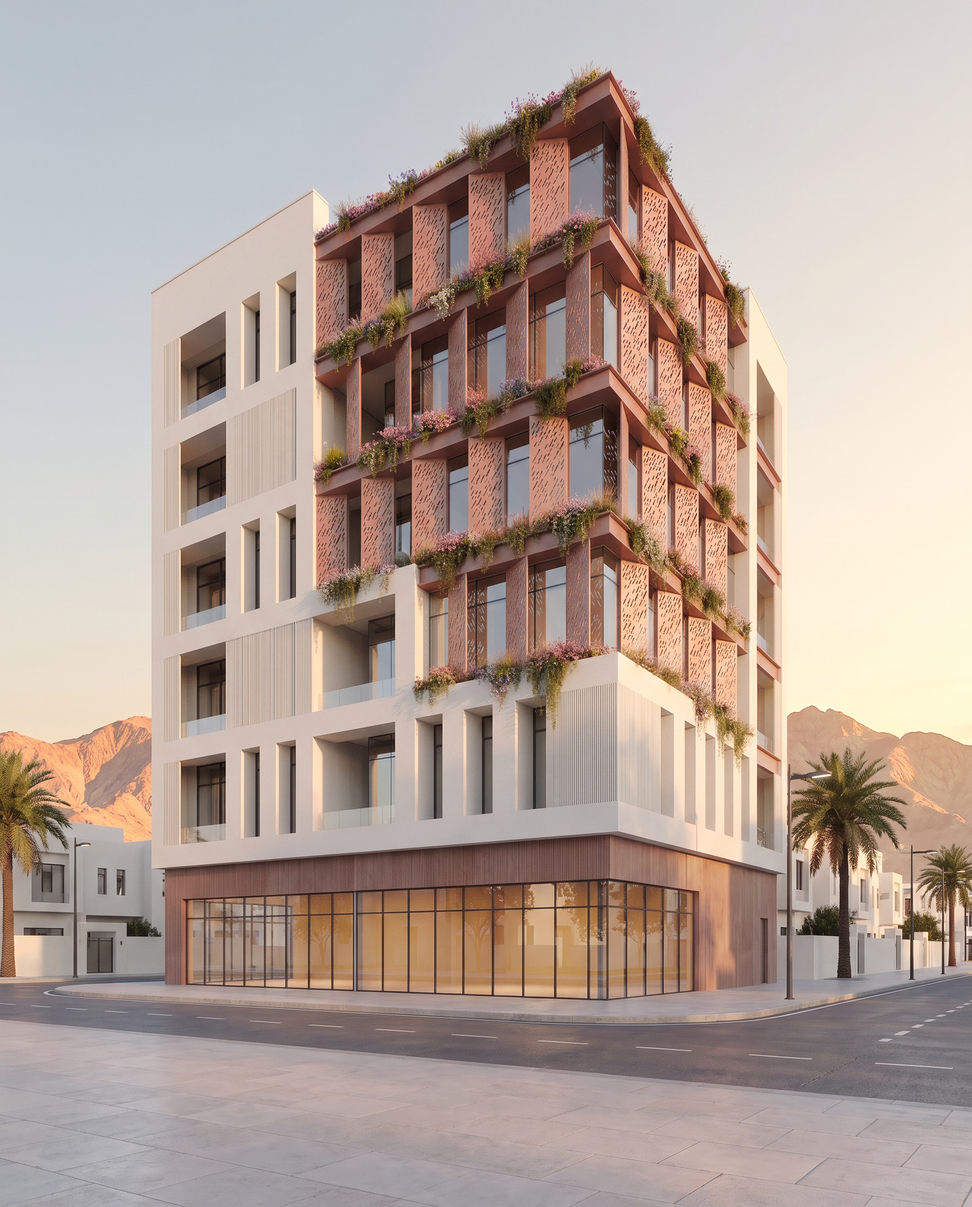
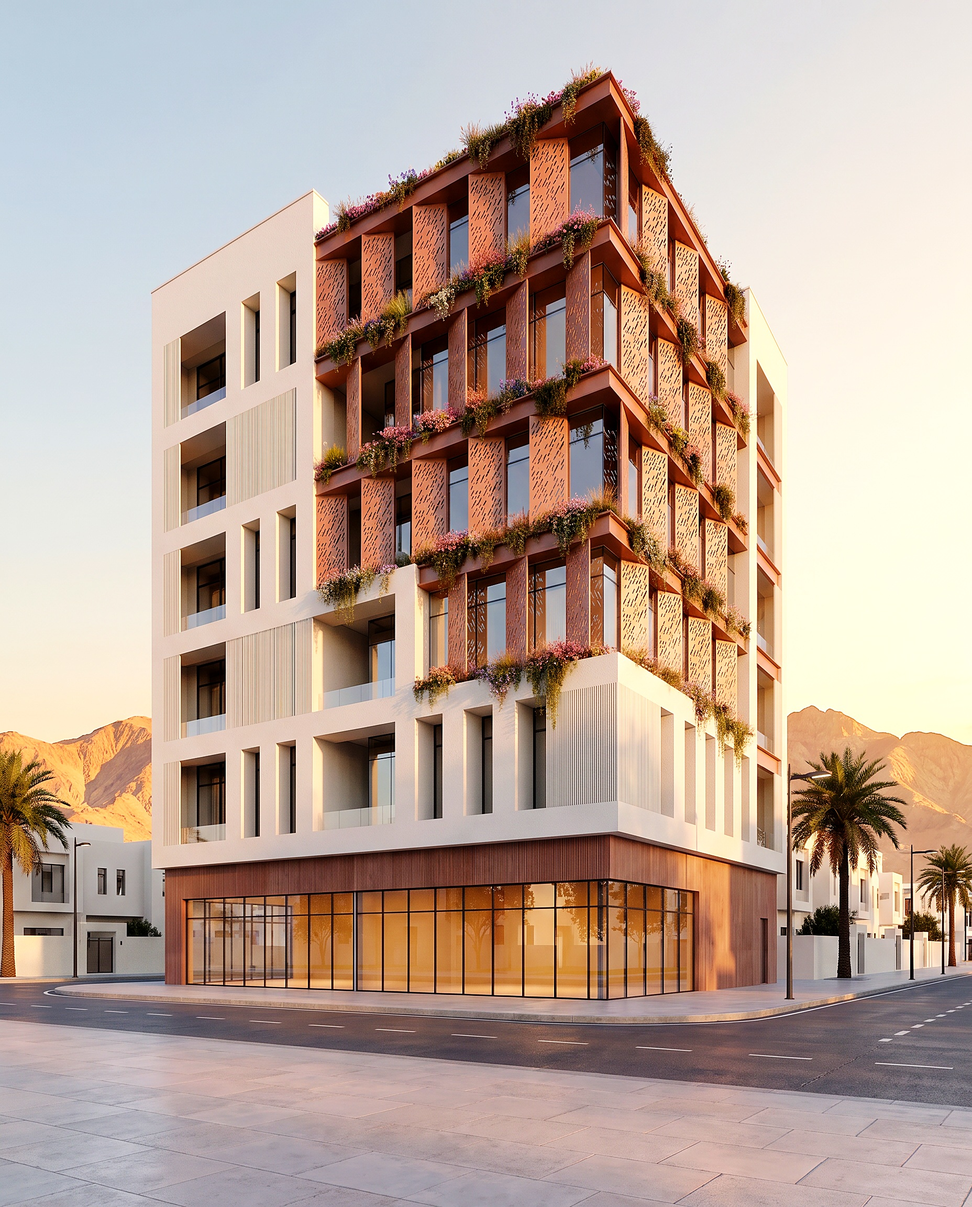
Noor: 3D Silk Wrap key visual posts; remove washed-out overlays and grade, add crisp finishing
Claude-Session: https://claude.ai/code/session_01H6SQzozLwMcKuwEvLnjbpP

Changed region(s): [[0.0, 0.0312, 1.0, 0.9062], [0.7188, 0.9688, 0.75, 1.0]]

diff --git a/14-Property-Marketing/10-Noor-Facade/Source/noor-wrap-post.html b/14-Property-Marketing/10-Noor-Facade/Source/noor-wrap-post.html
@@ -1,0 +1,70 @@
+<!doctype html>
+<html><head><meta charset="utf-8"><title>SIRAJ · Noor silk wrap post</title>
+<!-- Noor · Silk Wrap key visual. Open with ?fmt=post|story&lang=ar|en
+     Photo: SIRAJ_Noor_Wrap_{4x5|9x16}_v1.0.jpg (AI-assisted CGI, enhanced with tools/noor-enhance.py). No milky overlays: type sits in the sky and on a deep Shadow fall. -->
+<link rel="stylesheet" href="../../../09-Design-System/css/siraj.css">
+<style>
+  html, body { margin: 0; background: #170608; }
+  #art { position: relative; overflow: hidden; background: #170608; }
+  #art.post { width: 1080px; height: 1350px; }
+  #art.story { width: 1080px; height: 1920px; }
+  .photo { position: absolute; inset: 0; width: 100%; height: 100%; object-fit: cover; }
+  .fall { position: absolute; left: 0; right: 0; bottom: 0;
+    background: linear-gradient(180deg, rgba(23,6,8,0) 0%, rgba(23,6,8,.08) 12%, rgba(23,6,8,.26) 24%, rgba(23,6,8,.55) 36%, rgba(23,6,8,.8) 48%, rgba(23,6,8,.94) 62%, #170608 80%); }
+  .top { position: absolute; left: 72px; top: 68px; direction: ltr; }
+  .logo { height: 36px; display: block; }
+  .eyebrow { font: 500 15px/1 Jost, sans-serif; letter-spacing: .22em; text-transform: uppercase; color: #602733; display: flex; align-items: center; gap: 12px; }
+  .lumen { width: 8px; height: 8px; background: #AA9180; transform: rotate(45deg); display: inline-block; flex: none; }
+  .bottom { position: absolute; left: 72px; right: 72px; bottom: 60px; color: #F7F2ED; }
+  .kicker { display: flex; align-items: center; gap: 12px; font: 500 15px/1 Jost, sans-serif; letter-spacing: .22em; text-transform: uppercase; color: #D6C0B2; margin: 0 0 18px; }
+  .name { font: 300 92px/1 Jost, sans-serif; letter-spacing: -.01em; color: #F7F2ED; margin: 0 0 28px; }
+  .head { margin-top: -14px !important; }
+  .head { font: 300 40px/1.2 Jost, sans-serif; color: #D6C0B2; margin: 14px 0 28px; }
+  .skyhead { position: absolute; left: 72px; right: 72px; top: 190px; margin: 0; font: 300 66px/1.1 Jost, sans-serif; letter-spacing: -.01em; color: #2C0F12; }
+  [dir=rtl] .skyhead { font: 500 68px/1.35 'SIRAJ Digits', Tajawal, sans-serif; letter-spacing: 0; }
+  .rule { height: 1px; background: linear-gradient(90deg, #AA9180, rgba(170,145,128,.15)); margin: 0 0 20px; }
+  [dir=rtl] .rule { background: linear-gradient(270deg, #AA9180, rgba(170,145,128,.15)); }
+  .foot { display: flex; justify-content: space-between; align-items: center; font: 400 17px/1 Jost, sans-serif; letter-spacing: .06em; color: #D6C0B2; }
+  .foot b { font-weight: 500; color: #F7F2ED; }
+  .disc { margin-top: 14px; font: 400 11px/1.3 Jost, sans-serif; letter-spacing: .04em; color: rgba(214,192,178,.6); }
+  [dir=rtl] .eyebrow, [dir=rtl] .kicker { font: 500 19px/1 'SIRAJ Digits', Tajawal, sans-serif; letter-spacing: 0; }
+  [dir=rtl] .name { font: 500 104px/1.05 'SIRAJ Digits', Tajawal, sans-serif; letter-spacing: 0; }
+  [dir=rtl] .head { font: 400 42px/1.4 'SIRAJ Digits', Tajawal, sans-serif; }
+  [dir=rtl] .foot { font: 400 19px/1 'SIRAJ Digits', Tajawal, sans-serif; letter-spacing: 0; }
+  [dir=rtl] .disc { font: 400 13px/1.3 'SIRAJ Digits', Tajawal, sans-serif; letter-spacing: 0; }
+  .ltr { direction: ltr; unicode-bidi: isolate; font-family: Jost, sans-serif; letter-spacing: .06em; }
+</style>
+</head><body>
+<div id="art"><img class="photo" alt=""><div class="fall"></div>
+  <div class="top"><img class="logo" src="../../../01-Logos/SVG/SIRAJ_Logo_Primary_v1.0.svg" alt="SIRAJ"></div>
+  <div class="bottom"><div class="kicker"></div><h1 class="name"></h1><p class="head"></p><div class="rule"></div><div class="foot"></div><div class="disc"></div></div>
+</div>
+<script>
+const q = new URLSearchParams(location.search);
+const fmt = q.get('fmt') || 'post', lang = q.get('lang') || 'ar';
+const art = document.getElementById('art'); art.className = fmt;
+if (lang === 'ar') art.setAttribute('dir', 'rtl');
+const T = {
+  ar: { eyebrow: 'مسقط', kicker: 'المشروع المؤسِّس لسراج · مسقط', name: 'نور', head: 'في قلب المدينة، يبدأ المعيار.',
+        foot: '<span>سجّل اهتمامك · <b class="ltr">sirajproperties.net</b></span><span class="ltr">@sirajproperties</span>',
+        disc: 'تصوّر معماري للمشروع.' },
+  en: { eyebrow: 'Muscat', kicker: 'SIRAJ’s Founding Project · Muscat', name: 'Noor', head: 'In the heart of the city, the standard begins.',
+        foot: '<span>Register your interest · <b>sirajproperties.net</b></span><span>@sirajproperties</span>',
+        disc: 'Architectural visualisation.' },
+}[lang];
+const L = { post: { fall: 600 }, story: { fall: 820 } }[fmt];
+const img = document.querySelector('.photo');
+img.src = q.get('img') || `SIRAJ_Noor_Wrap_${fmt === 'story' ? '9x16' : '4x5'}_v1.0.jpg`;
+img.style.objectPosition = q.get('pos') || '50% 50%';
+document.querySelector('.kicker').innerHTML = `<span class="lumen"></span>${T.kicker}`;
+document.querySelector('.name').textContent = T.name;
+if (fmt === 'story') {
+  const h = document.createElement('h2'); h.className = 'skyhead'; h.innerHTML = T.head.replace('، ', '،<br>').replace(', ', ',<br>');
+  art.appendChild(h); document.querySelector('.head').remove();
+} else document.querySelector('.head').textContent = T.head;
+document.querySelector('.foot').innerHTML = T.foot;
+document.querySelector('.disc').textContent = T.disc;
+document.querySelector('.fall').style.height = L.fall + 'px';
+(img.complete ? Promise.resolve() : new Promise((r) => (img.onload = r))).then(() => (window.ready = true));
+</script>
+</body></html>

diff --git a/14-Property-Marketing/10-Noor-Facade/Source/noor-hero-post.html b/14-Property-Marketing/10-Noor-Facade/Source/noor-hero-post.html
@@ -10,7 +10,7 @@
   #art.story { width: 1080px; height: 1920px; }
   .photo { position: absolute; inset: 0; width: 100%; height: 100%; object-fit: cover; }
   .sky { position: absolute; left: 0; right: 0; top: 0; height: 44%; background: linear-gradient(180deg, rgba(247,242,237,.55), rgba(247,242,237,0)); }
-  .fall { position: absolute; left: 0; right: 0; bottom: 0; background: linear-gradient(180deg, rgba(44,15,18,0) 0%, rgba(44,15,18,.82) 46%, #2C0F12 100%); }
+  .fall { position: absolute; left: 0; right: 0; bottom: 0; background: linear-gradient(180deg, rgba(23,6,8,0) 0%, rgba(23,6,8,.3) 22%, rgba(23,6,8,.75) 44%, rgba(23,6,8,.94) 64%, #170608 100%); }
   #silk { position: absolute; left: 0; right: 0; bottom: 0; width: 100%; }
   .top { position: absolute; left: 72px; right: 72px; top: 72px; display: flex; justify-content: space-between; align-items: center; }
   .logo { height: 34px; display: block; }
@@ -38,7 +38,7 @@
 <script src="../../../06-SIRAJ-Silk/engine/siraj-silk.js"></script>
 </head><body>
 <div id="art"><img class="photo" alt="">
-  <div class="sky"></div><div class="fall"></div><canvas id="silk"></canvas>
+  <div class="fall"></div><canvas id="silk"></canvas>
   <div class="top"><img class="logo" src="../../../01-Logos/SVG/SIRAJ_Logo_Primary_v1.0.svg" alt="SIRAJ"><div class="eyebrow"></div></div>
   <h1 class="head"></h1>
   <div class="bottom"><div class="name"></div><p class="headB"></p><div class="rule"></div><div class="foot"></div><div class="disc"></div></div>

diff --git a/tools/build-noor-wrap.js b/tools/build-noor-wrap.js
@@ -1,0 +1,21 @@
+// Noor · Silk Wrap key-visual posts (post 4:5 and story 9:16, Arabic and English).
+// Usage: node tools/build-noor-wrap.js
+const path = require('path');
+const R = require('./lib/render');
+const SRC = path.join(R.ROOT, '14-Property-Marketing/10-Noor-Facade/Source/noor-wrap-post.html');
+const OUT = path.join(R.ROOT, '14-Property-Marketing/10-Noor-Facade');
+const JOBS = (process.argv[2] ? [process.argv[2]] : ['post', 'story']).map((f) => (f === 'post' ? ['post', 1080, 1350, 'Post'] : ['story', 1080, 1920, 'Story']));
+(async () => {
+  for (const [fmt, w, h, name] of JOBS) for (const lang of ['ar', 'en']) {
+    const { page, cleanup } = await R.openPage({ file: SRC, width: w, height: h, scale: 2 });
+    await page.goto('file://' + SRC + `?fmt=${fmt}&lang=${lang}`, { waitUntil: 'load' });
+    await page.evaluate(() => document.fonts.ready);
+    await page.waitForFunction(() => window.ready === true);
+    await page.waitForTimeout(300);
+    const out = path.join(OUT, `SIRAJ_Noor_Wrap_${name}_${lang.toUpperCase()}_v1.0.png`);
+    await page.locator('#art').screenshot({ path: out });
+    await cleanup();
+    console.log('  ✓', path.relative(R.ROOT, out));
+  }
+  await R.close();
+})();

diff --git a/tools/noor-enhance.py b/tools/noor-enhance.py
@@ -1,0 +1,33 @@
+#!/usr/bin/env python3
+"""Crisp, rich finishing for key visuals (the opposite of a faded look).
+
+Black point to true shadow, gentle S-curve, +vibrance, light unsharp mask, and
+maroon kept on brand (no hue shift). Usage: python3 tools/noor-enhance.py in out [strength]
+"""
+import sys
+import numpy as np
+from PIL import Image, ImageFilter
+
+src, dst = sys.argv[1], sys.argv[2]
+k = float(sys.argv[3]) if len(sys.argv) > 3 else 1.0
+im = Image.open(src).convert('RGB')
+a = np.asarray(im).astype(np.float32) / 255
+
+# 1 · levels: set black/white points from the 0.4 / 99.7 percentiles (removes haze)
+lo = np.percentile(a, 0.4, axis=(0, 1)).mean() * k
+hi = 1 - (1 - np.percentile(a, 99.7, axis=(0, 1)).mean()) * k
+a = np.clip((a - lo) / max(hi - lo, 1e-3), 0, 1)
+# 2 · S-curve (contrast) around mid-grey
+s = 0.22 * k
+a = np.clip(0.5 + (a - 0.5) * (1 + s) - s * 4 * (a - 0.5) ** 3, 0, 1)
+# 3 · vibrance: boost low-saturation pixels more than saturated ones
+mx, mn = a.max(-1, keepdims=True), a.min(-1, keepdims=True)
+sat = mx - mn
+lum = (a * [0.2126, 0.7152, 0.0722]).sum(-1, keepdims=True)
+boost = 1 + 0.28 * k * (1 - sat)
+a = np.clip(lum + (a - lum) * boost, 0, 1)
+
+out = Image.fromarray((a * 255 + 0.5).astype(np.uint8))
+out = out.filter(ImageFilter.UnsharpMask(radius=1.6, percent=int(55 * k), threshold=2))
+out.save(dst, quality=94)
+print('enhanced', dst)

diff --git a/ASSET-INDEX.md b/ASSET-INDEX.md
@@ -2,7 +2,7 @@
 
 Generated by `npm run build:index` on 2026-10-11. Paths are relative to the repository root.
 
-**1437 files · 622.0 MB**
+**1444 files · 652.8 MB**
 
 | Folder | Files | Size | Types |
 |---|---|---|---|
@@ -20,7 +20,7 @@ Generated by `npm run build:index` on 2026-10-11. Paths are relative to the repo
 | [11-Social](#11-social) | 118 | 66.4 MB | png ×97, html ×16, js ×3, md ×1, css ×1 |
 | [12-Print](#12-print) | 77 | 26.2 MB | pdf ×27, png ×27, html ×20, md ×1, css ×1, json ×1 |
 | [13-Presentations](#13-presentations) | 42 | 22.2 MB | png ×34, pdf ×2, html ×2, pptx ×1, md ×1, css ×1, js ×1 |
-| [14-Property-Marketing](#14-property-marketing) | 276 | 224.9 MB | png ×157, html ×67, svg ×26, pdf ×20, jpg ×3, md ×2, css ×1 |
+| [14-Property-Marketing](#14-property-marketing) | 283 | 255.7 MB | png ×161, html ×68, svg ×26, pdf ×20, jpg ×5, md ×2, css ×1 |
 | [15-Motion-System](#15-motion-system) | 61 | 68.3 MB | mp4 ×24, png ×24, wav ×5, js ×4, html ×2, md ×1, css ×1 |
 | [16-Intro](#16-intro) | 15 | 39.8 MB | mp4 ×7, png ×4, mov ×1, webm ×1, md ×1, html ×1 |
 | [17-Outro](#17-outro) | 31 | 49.8 MB | mp4 ×18, png ×9, mov ×1, webm ×1, md ×1, html ×1 |
@@ -2246,32 +2246,39 @@ Specification: [`14-Property-Marketing/README.md`](14-Property-Marketing/README.
 
 </details>
 
-<details><summary><b>14-Property-Marketing/10-Noor-Facade/</b> — 9 files</summary>
+<details><summary><b>14-Property-Marketing/10-Noor-Facade/</b> — 13 files</summary>
 
 | File | Size |
 |---|---|
-| [README.md](14-Property-Marketing/10-Noor-Facade/README.md) | 2 KB |
+| [README.md](14-Property-Marketing/10-Noor-Facade/README.md) | 3 KB |
 | [SIRAJ_Noor_Facade_Post_AR_v1.0.png](14-Property-Marketing/10-Noor-Facade/SIRAJ_Noor_Facade_Post_AR_v1.0.png) | 1.6 MB |
 | [SIRAJ_Noor_Facade_Post_EN_v1.0.png](14-Property-Marketing/10-Noor-Facade/SIRAJ_Noor_Facade_Post_EN_v1.0.png) | 1.7 MB |
 | [SIRAJ_Noor_Facade_Story_AR_v1.0.png](14-Property-Marketing/10-Noor-Facade/SIRAJ_Noor_Facade_Story_AR_v1.0.png) | 2.2 MB |
 | [SIRAJ_Noor_Facade_Story_EN_v1.0.png](14-Property-Marketing/10-Noor-Facade/SIRAJ_Noor_Facade_Story_EN_v1.0.png) | 2.2 MB |
-| [SIRAJ_Noor_Hero_Post_AR_v1.0.png](14-Property-Marketing/10-Noor-Facade/SIRAJ_Noor_Hero_Post_AR_v1.0.png) | 5.3 MB |
-| [SIRAJ_Noor_Hero_Post_EN_v1.0.png](14-Property-Marketing/10-Noor-Facade/SIRAJ_Noor_Hero_Post_EN_v1.0.png) | 5.3 MB |
-| [SIRAJ_Noor_Hero_Story_AR_v1.0.png](14-Property-Marketing/10-Noor-Facade/SIRAJ_Noor_Hero_Story_AR_v1.0.png) | 6.5 MB |
-| [SIRAJ_Noor_Hero_Story_EN_v1.0.png](14-Property-Marketing/10-Noor-Facade/SIRAJ_Noor_Hero_Story_EN_v1.0.png) | 6.5 MB |
+| [SIRAJ_Noor_Hero_Post_AR_v1.0.png](14-Property-Marketing/10-Noor-Facade/SIRAJ_Noor_Hero_Post_AR_v1.0.png) | 6.1 MB |
+| [SIRAJ_Noor_Hero_Post_EN_v1.0.png](14-Property-Marketing/10-Noor-Facade/SIRAJ_Noor_Hero_Post_EN_v1.0.png) | 6.1 MB |
+| [SIRAJ_Noor_Hero_Story_AR_v1.0.png](14-Property-Marketing/10-Noor-Facade/SIRAJ_Noor_Hero_Story_AR_v1.0.png) | 7.7 MB |
+| [SIRAJ_Noor_Hero_Story_EN_v1.0.png](14-Property-Marketing/10-Noor-Facade/SIRAJ_Noor_Hero_Story_EN_v1.0.png) | 7.8 MB |
+| [SIRAJ_Noor_Wrap_Post_AR_v1.0.png](14-Property-Marketing/10-Noor-Facade/SIRAJ_Noor_Wrap_Post_AR_v1.0.png) | 5.4 MB |
+| [SIRAJ_Noor_Wrap_Post_EN_v1.0.png](14-Property-Marketing/10-Noor-Facade/SIRAJ_Noor_Wrap_Post_EN_v1.0.png) | 5.4 MB |
+| [SIRAJ_Noor_Wrap_Story_AR_v1.0.png](14-Property-Marketing/10-Noor-Facade/SIRAJ_Noor_Wrap_Story_AR_v1.0.png) | 6.3 MB |
+| [SIRAJ_Noor_Wrap_Story_EN_v1.0.png](14-Property-Marketing/10-Noor-Facade/SIRAJ_Noor_Wrap_Story_EN_v1.0.png) | 6.3 MB |
 
 </details>
 
-<details><summary><b>14-Property-Marketing/10-Noor-Facade/Source/</b> — 6 files</summary>
+<details><summary><b>14-Property-Marketing/10-Noor-Facade/Source/</b> — 9 files</summary>
 
 | File | Size |
 |---|---|
 | [SIRAJ_Noor_Facade_Clean_v1.0.jpg](14-Property-Marketing/10-Noor-Facade/Source/SIRAJ_Noor_Facade_Clean_v1.0.jpg) | 469 KB |
 | [SIRAJ_Noor_Facade_Cutout_v1.0.png](14-Property-Marketing/10-Noor-Facade/Source/SIRAJ_Noor_Facade_Cutout_v1.0.png) | 1.2 MB |
-| [SIRAJ_Noor_Hero_City_4x5_v1.0.jpg](14-Property-Marketing/10-Noor-Facade/Source/SIRAJ_Noor_Hero_City_4x5_v1.0.jpg) | 1.1 MB |
-| [SIRAJ_Noor_Hero_City_9x16_v1.0.jpg](14-Property-Marketing/10-Noor-Facade/Source/SIRAJ_Noor_Hero_City_9x16_v1.0.jpg) | 953 KB |
+| [SIRAJ_Noor_Hero_City_4x5_v1.0.jpg](14-Property-Marketing/10-Noor-Facade/Source/SIRAJ_Noor_Hero_City_4x5_v1.0.jpg) | 1.4 MB |
+| [SIRAJ_Noor_Hero_City_9x16_v1.0.jpg](14-Property-Marketing/10-Noor-Facade/Source/SIRAJ_Noor_Hero_City_9x16_v1.0.jpg) | 1.3 MB |
+| [SIRAJ_Noor_Wrap_4x5_v1.0.jpg](14-Property-Marketing/10-Noor-Facade/Source/SIRAJ_Noor_Wrap_4x5_v1.0.jpg) | 1.3 MB |
+| [SIRAJ_Noor_Wrap_9x16_v1.0.jpg](14-Property-Marketing/10-Noor-Facade/Source/SIRAJ_Noor_Wrap_9x16_v1.0.jpg) | 1.1 MB |
 | [noor-facade-post.html](14-Property-Marketing/10-Noor-Facade/Source/noor-facade-post.html) | 6 KB |
 | [noor-hero-post.html](14-Property-Marketing/10-Noor-Facade/Source/noor-hero-post.html) | 6 KB |
+| [noor-wrap-post.html](14-Property-Marketing/10-Noor-Facade/Source/noor-wrap-post.html) | 5 KB |
 
 </details>
 

diff --git a/14-Property-Marketing/10-Noor-Facade/README.md b/14-Property-Marketing/10-Noor-Facade/README.md
@@ -31,3 +31,15 @@ node tools/build-noor-facade.js
 | Hero post | في قلب المدينة، يبدأ المعيار. | In the heart of the city, the standard begins. |
 
 Both lines build on the brand core «سراج لا تبدأ بالانتشار، بل تبدأ بمعيار».
+
+## Silk Wrap · key visual (3D)
+
+`SIRAJ_Noor_Wrap_{Post,Story}_{AR,EN}_v1.0.png`: one SIRAJ Silk ribbon wraps the building in a full three-dimensional spiral, rising from the plaza and flowing into the sky. This is the brand's WRAP formation.
+
+- `Source/SIRAJ_Noor_Wrap_4x5_v1.0.jpg` and `Source/SIRAJ_Noor_Wrap_9x16_v1.0.jpg` are AI-assisted CGI (Nano Banana Pro) built on the hero view. Each is finished with `tools/noor-enhance.py`: true black point, S-curve, vibrance and light sharpening. There is no fading.
+- Layout: `Source/noor-wrap-post.html`.
+  - No milky overlays. The type sits in the sky, and on a deep SIRAJ Shadow fall at the bottom.
+  - The logo stays in clear sky, never on the silk.
+- Build: `node tools/build-noor-wrap.js`.
+
+The hero posts were rebuilt the same way: their ivory sky overlay was removed, and the 35 % grade was replaced by `noor-enhance.py`.
